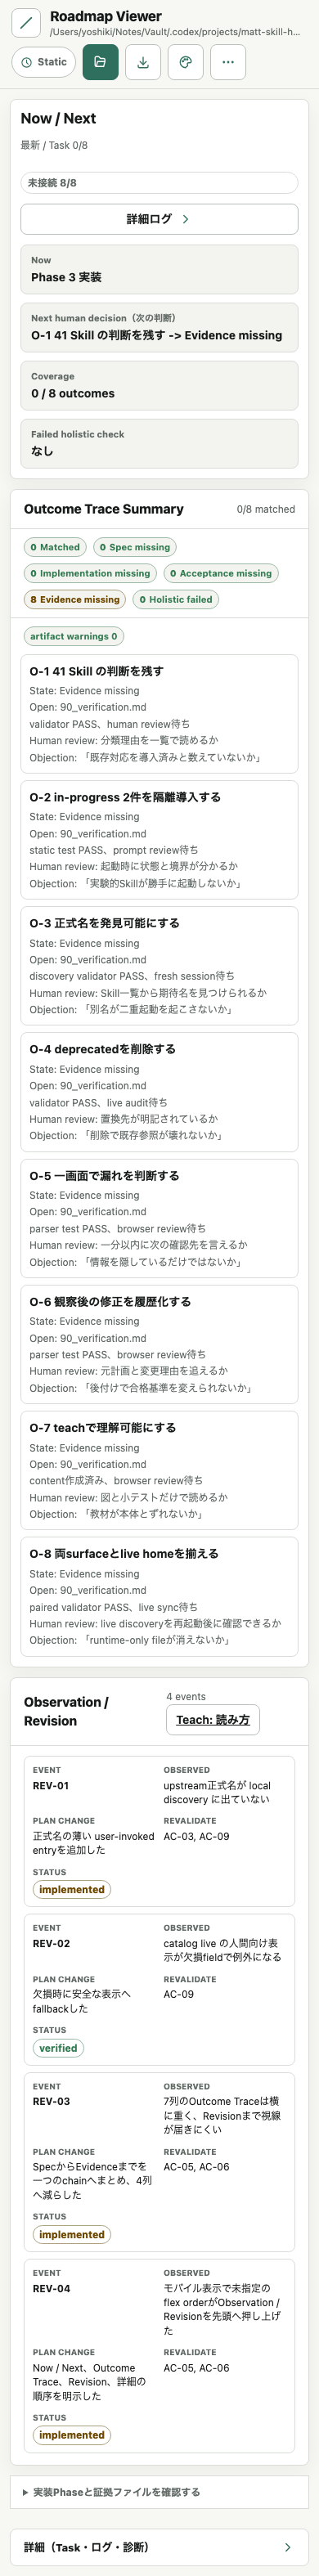
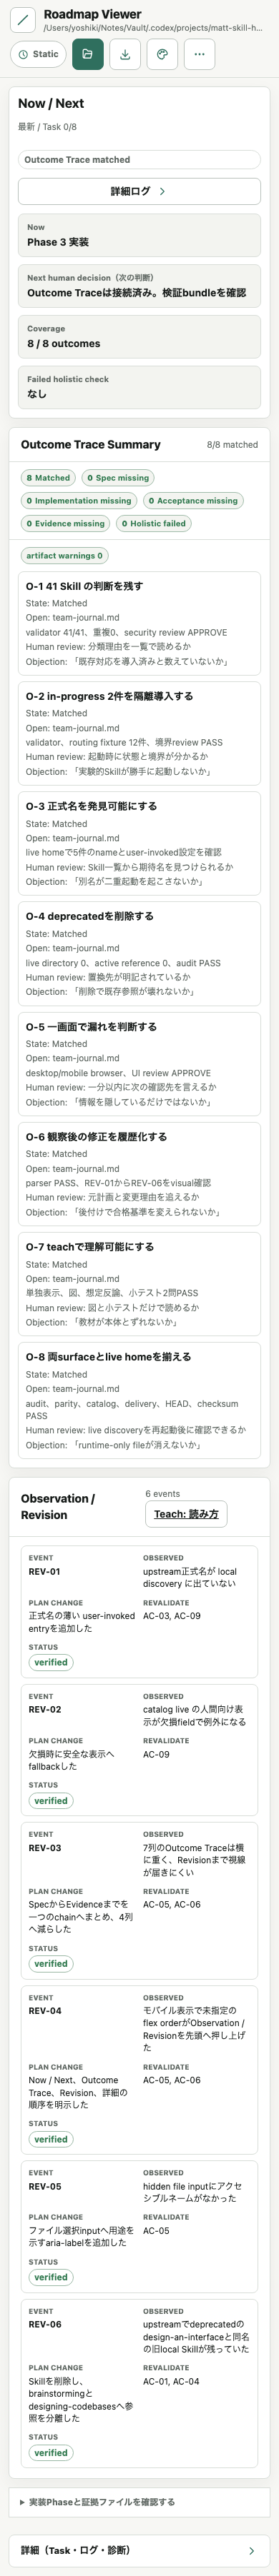
docs: Matt Skill検証証拠を確定

diff --git a/projects/matt-skill-harness/roadmap.html b/projects/matt-skill-harness/roadmap.html
@@ -1057,7 +1057,7 @@
 
   <div class="visually-hidden" id="state-announcer" role="status" aria-live="polite"></div>
   <div class="toast" id="toast" role="status" aria-live="polite"></div>
[2 lines of base64/hex data omitted]
   <script>
     /* ROADMAP_MODEL_START */
     const PHASES = [

diff --git a/projects/matt-skill-harness/90_verification.md b/projects/matt-skill-harness/90_verification.md
@@ -2,16 +2,37 @@
 
 ## Status
 
-pending
+PASS
 
-## Evidence to collect
+## Holistic Check
 
-- Skill inventory validator
-- trigger precision and non-trigger fixtures
-- governance unit tests
-- audit, parity, delivery
-- roadmap parser and browser tests
-- desktop, tablet, mobile screenshots
-- keyboard and accessibility checks
-- Codex and Claude exact SHA
-- runtime-only file before and after manifest
+PASS。計画、実装、合格基準、証拠、人間確認、反論、観察後の修正が8件すべて接続されている。
+
+## Acceptance evidence
+
+| Acceptance | Result | Evidence |
+| --- | --- | --- |
+| AC-01 | PASS | inventory 41行、重複0、各行に判定と理由 |
+| AC-02 | PASS | 2 Skillともuser-invoked、in-progress表示、外部送信なし。routing fixture 12件 |
+| AC-03 | PASS | live homeに正式名5件の`SKILL.md`が存在し、validatorでnameと起動権を確認 |
+| AC-04 | PASS | deprecated 4件のdirectoryとactive referenceが0。live audit PASS |
+| AC-05 | PASS | desktopとmobileのvisual review、reading order、horizontal overflow、accessible nameを確認 |
+| AC-06 | PASS | Outcome Trace parserと8行のhuman review、objectionを確認 |
+| AC-07 | PASS | REV-01からREV-06を表示し、各変更に再検証先がある |
+| AC-08 | PASS | lessonとreferenceを単独表示し、図、想定反論、2問の小テストを操作確認 |
+| AC-09 | PASS | Python roadmap 36件、Node 27件、governance 98件がPASS。audit、parity、catalog、deliveryもPASS |
+| AC-10 | PASS | source、live、origin/mainの一致を確認。設定checksumとruntime-only fileは同期前後で維持 |
+
+## Runtime preservation
+
+- Codex：`cc-switch-model-catalog.json`、`mcp-oauth-locks/`、`scripts/__pycache__/`、`skills/hatch-pet/`、`transcription-history.jsonl`を保持した。
+- Claude：既存のruntime project directory 27件を保持した。
[2 lines of base64/hex data omitted]
+
+## Browser evidence
+
+- desktop 1440×1000：横overflowなし、読順PASS、重複IDと無名controlなし。
+- mobile 390×844：Now / Next、Outcome Trace、Observation / Revision、詳細の順序でPASS。
+- teach lesson：2問とも正答feedbackを実操作で確認。
+- screenshot：`artifacts/screenshots/roadmap-desktop.png`、`roadmap-mobile.png`、`teach-lesson.png`。

diff --git a/projects/matt-skill-harness/80_review.md b/projects/matt-skill-harness/80_review.md
@@ -2,13 +2,35 @@
 
 ## Status
 
-pending
+APPROVE
 
-## Review questions
+## Final severity
 
-- CRITICAL：削除対象に未置換の参照が残っていないか。
-- CRITICAL：live syncがruntime-only fileやsecretを上書きしないか。
-- IMPORTANT：正式名entryが同じskillの二重自動起動を作らないか。
-- IMPORTANT：first screenだけで未達と次の人間判断が分かるか。
-- IMPORTANT：計画変更がacceptanceの形骸化に使えないか。
-- MINOR：teach lessonの図とロードマップの用語が一致しているか。
+- CRITICAL：0
+- IMPORTANT：0
+- MINOR：0
+
+## Review rounds
+
+| Round | Focus | Result |
+| --- | --- | --- |
+| 1 | governance、provenance、symlink、estate hold | 指摘を修正 |
+| 2 | roadmap情報設計、first screen、mobile trace | APPROVE |
+| 2 | accessibility、keyboard、name、reading order、contrast | APPROVE |
+| 3 | deprecated 4件、snapshot、routing、live audit | APPROVE |
+
+## Resolved findings
+
+- `design-an-interface`を含む4件へretired setを修正した。
+- `roadmap-snapshot.json`も`--json`で再生成し、sourceとのずれを解消した。
+- mobileの順序をNow / Next、Outcome Trace、Revision、詳細へ固定した。
+- hidden file inputへaccessible nameを追加した。
+- Codex selectorを反映したlive estate 493件へlockを再整合した。
+
+## Final checks
+
+- live audit、parity、catalog、delivery：PASS。
+- governance unit test：98件PASS、5件skip。
+- roadmap Python：36件PASS。
+- roadmap Node：27件PASS。
+- 独立review：security、UI、accessibilityがすべてAPPROVE。

diff --git a/projects/matt-skill-harness/team-journal.md b/projects/matt-skill-harness/team-journal.md
@@ -4,33 +4,33 @@
 
 - Goal Gate：PASS
 - Lane：user-scope governance と harness implementation
-- Outcome Trace：実装接続済み8、evidence収集中、holistic pending
+- Outcome Trace：8/8 matched、holistic PASS
 - Review Heat：標準。governance、UI、accessibility を直接検証する。
-- 現在の周：1
+- 現在の周：3
 
 ## Outcome Trace
 
 | Outcome | Requirement | Implementation | Acceptance | Evidence | Human Review | Objection | State |
 | --- | --- | --- | --- | --- | --- | --- | --- |
-| O-1 41 Skill の判断を残す | 00_spec.md O-1 | Task 1 / matt-skill-inventory.md | AC-01 | validator PASS、human review待ち | 分類理由を一覧で読めるか | 「既存対応を導入済みと数えていないか」 | missing-evidence |
-| O-2 in-progress 2件を隔離導入する | 00_spec.md O-2 | Task 3 / skills 2件 | AC-02 | static test PASS、prompt review待ち | 起動時に状態と境界が分かるか | 「実験的Skillが勝手に起動しないか」 | missing-evidence |
-| O-3 正式名を発見可能にする | 00_spec.md O-3 | Task 2 / entry 5件 | AC-03 | discovery validator PASS、fresh session待ち | Skill一覧から期待名を見つけられるか | 「別名が二重起動を起こさないか」 | missing-evidence |
-| O-4 deprecatedを削除する | 00_spec.md O-4 | Task 4 / retired 4件 | AC-04 | validator PASS、live audit待ち | 置換先が明記されているか | 「削除で既存参照が壊れないか」 | missing-evidence |
-| O-5 一画面で漏れを判断する | 00_spec.md O-5 | Task 5 / roadmap viewer | AC-05, AC-06 | parser test PASS、browser review待ち | 一分以内に次の確認先を言えるか | 「情報を隠しているだけではないか」 | missing-evidence |
-| O-6 観察後の修正を履歴化する | 00_spec.md O-6 | Task 5 / Revision Log | AC-07 | parser test PASS、browser review待ち | 元計画と変更理由を追えるか | 「後付けで合格基準を変えられないか」 | missing-evidence |
-| O-7 teachで理解可能にする | 00_spec.md O-7 | Task 6 / lesson、reference | AC-08 | content作成済み、browser review待ち | 図と小テストだけで読めるか | 「教材が本体とずれないか」 | missing-evidence |
-| O-8 両surfaceとlive homeを揃える | 00_spec.md O-8 | Task 7, Task 8 | AC-09, AC-10 | paired validator PASS、live sync待ち | live discoveryを再起動後に確認できるか | 「runtime-only fileが消えないか」 | missing-evidence |
+| O-1 41 Skill の判断を残す | 00_spec.md O-1 | Task 1 / matt-skill-inventory.md | AC-01 | validator 41/41、重複0、security review APPROVE | 分類理由を一覧で読めるか | 「既存対応を導入済みと数えていないか」 | matched |
+| O-2 in-progress 2件を隔離導入する | 00_spec.md O-2 | Task 3 / skills 2件 | AC-02 | validator、routing fixture 12件、境界review PASS | 起動時に状態と境界が分かるか | 「実験的Skillが勝手に起動しないか」 | matched |
+| O-3 正式名を発見可能にする | 00_spec.md O-3 | Task 2 / entry 5件 | AC-03 | live homeで5件のnameとuser-invoked設定を確認 | Skill一覧から期待名を見つけられるか | 「別名が二重起動を起こさないか」 | matched |
+| O-4 deprecatedを削除する | 00_spec.md O-4 | Task 4 / retired 4件 | AC-04 | live directory 0、active reference 0、audit PASS | 置換先が明記されているか | 「削除で既存参照が壊れないか」 | matched |
+| O-5 一画面で漏れを判断する | 00_spec.md O-5 | Task 5 / roadmap viewer | AC-05, AC-06 | desktop/mobile browser、UI review APPROVE | 一分以内に次の確認先を言えるか | 「情報を隠しているだけではないか」 | matched |
+| O-6 観察後の修正を履歴化する | 00_spec.md O-6 | Task 5 / Revision Log | AC-07 | parser PASS、REV-01からREV-06をvisual確認 | 元計画と変更理由を追えるか | 「後付けで合格基準を変えられないか」 | matched |
+| O-7 teachで理解可能にする | 00_spec.md O-7 | Task 6 / lesson、reference | AC-08 | 単独表示、図、想定反論、小テスト2問PASS | 図と小テストだけで読めるか | 「教材が本体とずれないか」 | matched |
+| O-8 両surfaceとlive homeを揃える | 00_spec.md O-8 | Task 7, Task 8 | AC-09, AC-10 | audit、parity、catalog、delivery、HEAD、checksum PASS | live discoveryを再起動後に確認できるか | 「runtime-only fileが消えないか」 | matched |
 
 ## Revision Log
 
 | ID | Observed | Plan change | Revalidate | Status |
 | --- | --- | --- | --- | --- |
-| REV-01 | upstream正式名が local discovery に出ていない | 正式名の薄い user-invoked entryを追加した | AC-03, AC-09 | implemented |
+| REV-01 | upstream正式名が local discovery に出ていない | 正式名の薄い user-invoked entryを追加した | AC-03, AC-09 | verified |
 | REV-02 | catalog live の人間向け表示が欠損fieldで例外になる | 欠損時に安全な表示へfallbackした | AC-09 | verified |
-| REV-03 | 7列のOutcome Traceは横に重く、Revisionまで視線が届きにくい | SpecからEvidenceまでを一つのchainへまとめ、4列へ減らした | AC-05, AC-06 | implemented |
-| REV-04 | モバイル表示で未指定のflex orderがObservation / Revisionを先頭へ押し上げた | Now / Next、Outcome Trace、Revision、詳細の順序を明示した | AC-05, AC-06 | implemented |
-| REV-05 | hidden file inputにアクセシブルネームがなかった | ファイル選択inputへ用途を示すaria-labelを追加した | AC-05 | implemented |
-| REV-06 | upstreamでdeprecatedの`design-an-interface`と同名の旧local Skillが残っていた | Skillを削除し、`brainstorming`と`designing-codebases`へ参照を分離した | AC-01, AC-04 | implemented |
+| REV-03 | 7列のOutcome Traceは横に重く、Revisionまで視線が届きにくい | SpecからEvidenceまでを一つのchainへまとめ、4列へ減らした | AC-05, AC-06 | verified |
+| REV-04 | モバイル表示で未指定のflex orderがObservation / Revisionを先頭へ押し上げた | Now / Next、Outcome Trace、Revision、詳細の順序を明示した | AC-05, AC-06 | verified |
+| REV-05 | hidden file inputにアクセシブルネームがなかった | ファイル選択inputへ用途を示すaria-labelを追加した | AC-05 | verified |
+| REV-06 | upstreamでdeprecatedの`design-an-interface`と同名の旧local Skillが残っていた | Skillを削除し、`brainstorming`と`designing-codebases`へ参照を分離した | AC-01, AC-04 | verified |
 
 ## Decision Log
 

diff --git a/projects/matt-skill-harness/40_progress.md b/projects/matt-skill-harness/40_progress.md
@@ -6,4 +6,13 @@
 - [x] Goal、Sprint Contract、Outcome Traceを作成した。
 - [x] Skill discoveryとdeprecated削除を実装した。
 - [x] Roadmapとteach lessonを実装した。
-- [ ] 両repoとlive homeを検証する。
+- [x] 両repoとlive homeを検証した。
+
+## Final
+
+- 41 Skill inventory：41/41 判定済み。
+- user-invoked entry：5/5 導入済み。
+- in-progress cohort：2/2 境界付きで導入済み。
+- deprecated：4/4 runtimeから削除済み。
+- Outcome Trace：8/8 implementation、acceptance、evidenceへ接続済み。
+- live governance：audit、parity、catalog、deliveryがPASS。

diff --git a/projects/matt-skill-harness/05_log.md b/projects/matt-skill-harness/05_log.md
@@ -48,3 +48,12 @@
 - Playwrightの`iPhone 13`指定は未導入WebKitを要求して失敗したため、Chromiumの390×844 viewportへ切り替えて同じresponsive layoutを確認した。
 - accessibility直接検証でhidden file inputのname欠落を検出し、`aria-label`と回帰テストを追加した。
 - 全41件の再照合で、deprecated名`design-an-interface`の旧local Skillが残る矛盾を検出した。旧sub-agent API前提でもあるため削除し、`brainstorming`と`designing-codebases`へ参照を分離した。
+
+## 2026-07-19 12:24 JST
+
+- Phase 4：独立reviewでstaleな`roadmap-snapshot.json`、retired routingの1件不足、空directoryを検出した。
+- 修正：roadmapを`--json`付きで再生成し、retired 4件のroutingとdirectory absenceを揃えた。
+- 修正：synthetic estate生成時にCodex selector 8件を落としていたため、live `estate-plan`の493件を正本として再生成した。
+- fresh検証：governance audit、parity、catalog、deliveryはすべてPASSした。
+- fresh検証：source、live、origin/mainのHEAD一致とruntime-only file、設定checksumの不変を確認した。
+- Phase 5：security、UI、accessibilityの独立reviewはCRITICAL 0、IMPORTANT 0、MINOR 0でAPPROVEした。